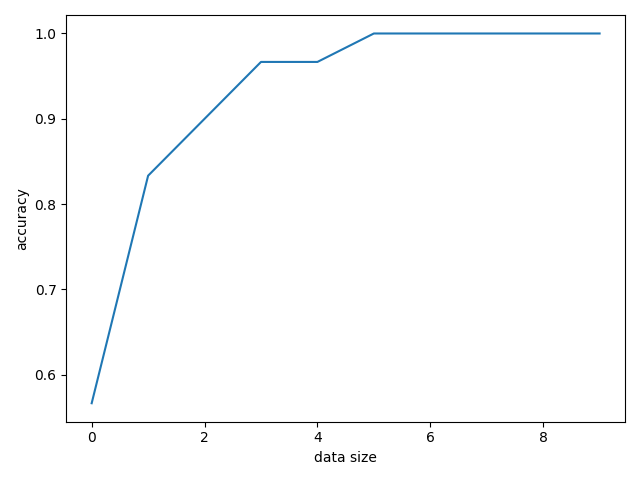
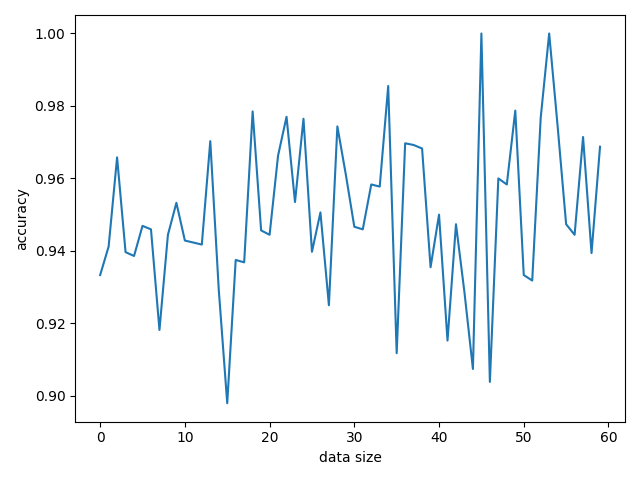
bayes

diff --git a/basicTree_train.py b/basicTree_train.py
@@ -18,8 +18,7 @@ from matplotlib import cm
 
 # 数据处理
 # 获取数据 划分数据集
-def get_dataset(test_size):
-    dataset = pd.read_csv("iris.data").values.tolist()
+def get_dataset(dataset, test_size):
     random.shuffle(dataset)
     # 特征值列表
     train_dataset, test_dataset = train_test_split(dataset, test_size=test_size, random_state=2)
@@ -182,7 +181,6 @@ def decision_tree_cut(dataset, labels, layer, layer_limit, data_limit):
     if layer >= layer_limit:
         return count_num(dataset)
     # 统计第一个标签出现的次数并与总标签个数比较，如果相等则说明当前列表中全部都是一种标签，此时停止划分
-
     if len(dataset) <= data_limit:
         return count_num(dataset)
 
@@ -239,10 +237,10 @@ def count_num(data):
 
 # 拟合得到最优树参数
 def fit_theta(a_dataset, e_dataset, label):
-    best_tree = decision_tree_cut(a_dataset, label, 0, layer_limit=4, data_limit=1)
+    best_tree = decision_tree_cut(a_dataset, label, 0, layer_limit=4, data_limit=3)
     best_acc = score(best_tree, label, e_dataset)
     a = 4
-    b = 1
+    b = 3
     acc_list = []
     layer_list = []
     data_list = []
@@ -272,12 +270,14 @@ def plot_learn_curve(x, y, z):
 
 
 if __name__ == '__main__':
-    train_dataset, test_dataset, labels = get_dataset(0.3)
+    data_set = pd.read_csv("iris.data").values.tolist()
+    train_dataset, test_dataset, labels = get_dataset(data_set, 0.2)
     temp_label = labels[:]
-    Tree = decision_tree(train_dataset, labels)
-    a, b, acc_l, layer_l, data_l = fit_theta(train_dataset, test_dataset, temp_label)
-    plot_learn_curve(layer_l, data_l, acc_l)
+    train_dataset, val_dataset, labels = get_dataset(train_dataset, 0.25)
 
+    Tree = decision_tree(train_dataset, labels)
+    a, b, acc_l, layer_l, data_l = fit_theta(train_dataset, val_dataset, temp_label)
+    plot_learn_curve(layer_l, data_l, acc_l)
     print(a, b)
     Tree_cut = decision_tree_cut(train_dataset, labels, 0, layer_limit=a, data_limit=b)
     treePlotter.create_plot(Tree)

diff --git a/bayes.py b/bayes.py
@@ -1,14 +1,15 @@
 import matplotlib.pyplot as plt
 from sklearn.datasets import load_iris
 from sklearn.model_selection import train_test_split
-from sklearn.naive_bayes import MultinomialNB
+from sklearn.naive_bayes import GaussianNB
 
 if __name__ == "__main__":
     x = load_iris().data
     y = load_iris().target
     x_train, x_test, y_train, y_test = train_test_split(x, y, test_size=0.2, random_state=0)
     # 将数据集按照 训练集比测试集为8：2的比例随机拆分数据集
-    clf = MultinomialNB()  # 建立朴素贝叶斯网络
+
+    clf = GaussianNB(var_smoothing=1e-8)
     clf.fit(x_train, y_train)  # 带入训练集训练模型
     num_test = len(y_test)
     # 预测
@@ -19,12 +20,11 @@ if __name__ == "__main__":
 
     # 数据扩大
     Accuracy = []
-    for j in range(10):
-        x = load_iris().data * (j + 1)
-        y = load_iris().target * (j + 1)
-
-        x_train, x_test, y_train, y_test = train_test_split(x, y, test_size=0.2, random_state=0)
-        clf = MultinomialNB()  # 拟合模型
+    for j in range(60):
+        x = load_iris().data
+        y = load_iris().target
+        x_train, x_test, y_train, y_test = train_test_split(x, y, test_size=(80-j)/100)
+        clf = GaussianNB(var_smoothing=1e-8)# 拟合模型
         clf.fit(x_train, y_train)  # 训练模型
         y_test_pre = clf.predict(x_test)  # 利用拟合的贝叶斯进行预测
 
@@ -33,7 +33,7 @@ if __name__ == "__main__":
         Accuracy.append(acc)  # 计算准确率
 
     plt.figure()
-    plt.plot(list(range(10)), Accuracy)
+    plt.plot(list(range(len(Accuracy))), Accuracy)
     plt.xlabel("data size")
     plt.ylabel("accuracy")
     plt.show()

diff --git a/Readme.md b/Readme.md
@@ -23,9 +23,8 @@ tree.txt保存树的数据结构
 ***
 #### 三.bayes.py为朴素贝叶斯学习训练iris
 直接运行该文件，可以得到贝叶斯训练结果  
-并实现数据集多次使用，并生成准确率随数据集扩增倍数变化图像：  
+改变训练集比例为20%到80%（对应图中从左到右），可以发现朴素贝叶斯学习可以在较小数据量下获得较高的准确率  
 ![bayes](figure/bayes_datasize_acc.png) 
-
 ***
 #### 四.EM.py为EM算法解决混合高斯分布的参数估计
 直接运行该文件，即可实现数据采样生成和参数估计过程。  
